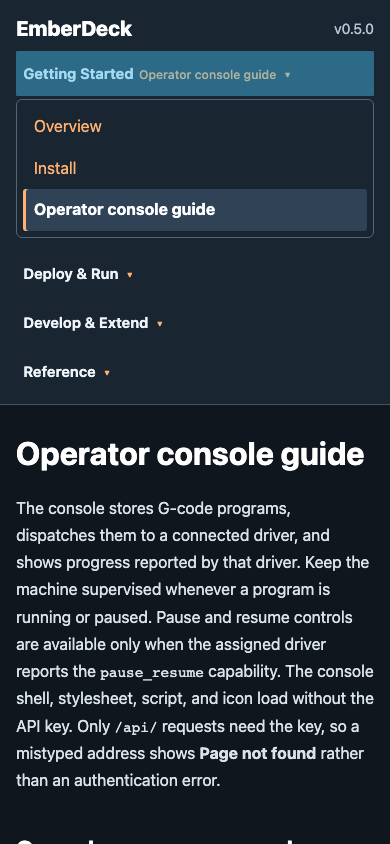
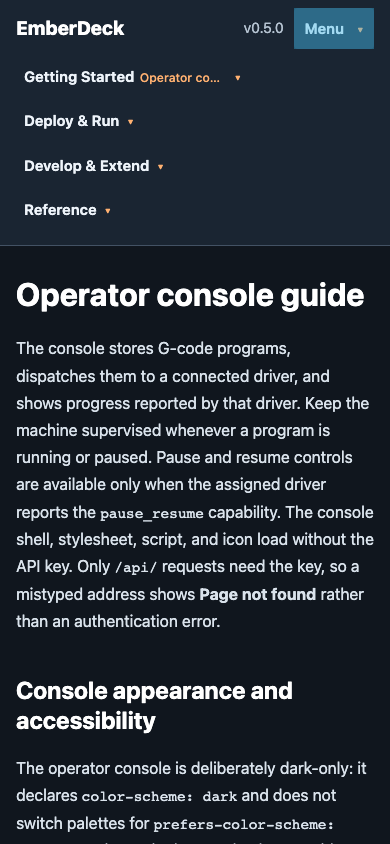
fix: make docs navigation responsive and dismissible

Changed region(s): [[0.0308, 0.3081, 0.9538, 1.0], [0.0308, 0.0, 0.9846, 0.154], [0.0308, 0.1848, 0.9538, 0.2773]]

diff --git a/e2e/docs-navigation.spec.js b/e2e/docs-navigation.spec.js
@@ -62,10 +62,10 @@ test('rendered documentation has grouped, current, keyboard accessible navigatio
     await expect(page.locator('link[rel="canonical"]')).toHaveAttribute('href', `https://constructorfleet.github.io/emberdeck/${pageName}`);
     await expect(page.locator('link[rel="icon"]')).toHaveAttribute('href', 'assets/favicon.svg');
     const currentPageName = await page.locator('nav a[aria-current="page"]').innerText();
-    const currentSummary = page.locator('nav details:has(a[aria-current="page"]) > summary');
+    const currentSummary = page.locator('nav .nav-groups > details:has(a[aria-current="page"]) > summary');
     await expect(currentSummary).toHaveAccessibleName(new RegExp(`Current page: ${currentPageName}`));
     for (const [label, links] of Object.entries(expectedGroups)) {
-      const group = page.locator('nav details').filter({ has: page.getByText(label, { exact: true }) });
+      const group = page.locator('nav .nav-groups > details').filter({ has: page.getByText(label, { exact: true }) });
       await expect(group.locator('summary')).toContainText(label);
       await group.locator('summary').click();
       for (const [link, href] of links) await expect(group.getByRole('link', { name: link, exact: true })).toHaveAttribute('href', href);
@@ -81,9 +81,25 @@ test('rendered documentation has grouped, current, keyboard accessible navigatio
     }
     await expect.poll(() => page.locator('img').evaluateAll((nodes) => nodes.every((image) => image.complete && image.naturalWidth > 0))).toBe(true);
     expect(await page.evaluate(() => document.documentElement.scrollWidth <= innerWidth), `${pageName} fits desktop`).toBe(true);
-    for (const width of [1024, 768, 721, 720, 681, 390]) {
+    for (const width of [1920, 1600, 1440, 1280, 1024, 900, 800, 768, 721, 720, 681, 390, 375, 320]) {
       await page.setViewportSize({ width, height: 900 });
       expect(await page.evaluate(() => document.documentElement.scrollWidth <= innerWidth), `${pageName} fits ${width}px`).toBe(true);
+      if (pageName === 'operator-guide.html') {
+        const mobileMenu = page.locator('nav .mobile-menu');
+        if (width <= 980) await mobileMenu.locator('summary').click();
+        for (const group of await page.locator('nav .nav-groups > details').all()) {
+          await group.locator('summary').click();
+          const bounds = await group.locator('ul').evaluate((menu) => {
+            const rect = menu.getBoundingClientRect();
+            return { left: rect.left, right: rect.right, width: rect.width, viewport: innerWidth };
+          });
+          expect(bounds.width, `${pageName} menu is visible at ${width}px`).toBeGreaterThan(0);
+          expect(bounds.left, `${pageName} menu left edge at ${width}px`).toBeGreaterThanOrEqual(0);
+          expect(bounds.right, `${pageName} menu right edge at ${width}px`).toBeLessThanOrEqual(bounds.viewport);
+          await group.locator('summary').click();
+        }
+        if (width <= 980) await mobileMenu.locator('summary').click();
+      }
       if (width === 768) {
         await page.locator('nav').evaluate((nav) => { nav.style.fontSize = '20px'; });
         expect(await page.evaluate(() => document.documentElement.scrollWidth <= innerWidth), `${pageName} fits 768px with larger navigation text`).toBe(true);
@@ -91,6 +107,18 @@ test('rendered documentation has grouped, current, keyboard accessible navigatio
       }
     }
     await page.setViewportSize({ width: 1440, height: 1000 });
+
+    await page.setViewportSize({ width: 1920, height: 1000 });
+    const contentBounds = await page.locator('main').evaluate((node) => {
+      const rect = node.getBoundingClientRect();
+      return { left: rect.left, right: rect.right };
+    });
+    const navBounds = await page.locator('nav .nav-inner').evaluate((node) => {
+      const rect = node.getBoundingClientRect();
+      return { left: rect.left, right: rect.right };
+    });
+    expect(Math.abs(navBounds.left - contentBounds.left), `${pageName} nav aligns left at 1920px`).toBeLessThanOrEqual(1);
+    expect(Math.abs(navBounds.right - contentBounds.right), `${pageName} nav aligns right at 1920px`).toBeLessThanOrEqual(1);
 
     await page.close();
   }
@@ -103,23 +131,43 @@ test('rendered documentation has grouped, current, keyboard accessible navigatio
   await keyboard.keyboard.press('Tab');
   await expect(keyboard.getByRole('link', { name: 'EmberDeck' })).toBeFocused();
   await keyboard.keyboard.press('Tab');
-  const menu = keyboard.locator('nav details').first();
+  const menu = keyboard.locator('nav .nav-groups > details').first();
   await expect(menu.locator('summary')).toBeFocused();
   await keyboard.keyboard.press('Enter');
   await expect(menu).toHaveAttribute('open', '');
   expect(await menu.locator('summary').evaluate((node) => getComputedStyle(node).outlineStyle)).not.toBe('none');
+  const secondMenu = keyboard.locator('nav .nav-groups > details').nth(1);
+  await secondMenu.locator('summary').click();
+  await expect(secondMenu).toHaveAttribute('open', '');
+  await expect(menu).not.toHaveAttribute('open', '');
+  await keyboard.keyboard.press('Escape');
+  await expect(secondMenu).not.toHaveAttribute('open', '');
+  await expect(secondMenu.locator('summary')).toBeFocused();
+  await secondMenu.locator('summary').click();
+  await keyboard.locator('footer').click({ position: { x: 5, y: 5 } });
+  await expect(secondMenu).not.toHaveAttribute('open', '');
+  await secondMenu.locator('summary').focus();
+  await keyboard.keyboard.press('Enter');
+  await keyboard.locator('nav .brand').focus();
+  await expect(secondMenu).not.toHaveAttribute('open', '');
   await keyboard.goto(pathToFileURL(path.join(docs, 'operator-guide.html')).href);
   await keyboard.getByRole('link', { name: 'Skip to content' }).focus();
   await keyboard.keyboard.press('Enter');
   await expect(keyboard.locator('#main-content')).toBeFocused();
 
-  const mobile = await browser.newPage({ viewport: { width: 390, height: 844 }, isMobile: true, hasTouch: true });
+  const mobile = await browser.newPage({ viewport: { width: 375, height: 667 }, isMobile: true, hasTouch: true });
   await mobile.goto(pathToFileURL(path.join(docs, 'operator-guide.html')).href);
   expect(await mobile.evaluate(() => document.documentElement.scrollWidth <= innerWidth)).toBe(true);
-  await expect(mobile.locator('nav details')).toHaveCount(4);
-  await mobile.locator('nav summary').nth(3).tap();
-  await expect(mobile.locator('nav details').nth(3)).toHaveAttribute('open', '');
-  await expect(mobile.locator('nav details').nth(3).getByRole('link', { name: 'API route index' })).toBeVisible();
+  expect(await mobile.locator('nav').evaluate((nav) => nav.getBoundingClientRect().height), 'closed mobile navigation stays compact').toBeLessThanOrEqual(80);
+  const mobileMenu = mobile.locator('nav .mobile-menu');
+  await expect(mobileMenu.locator('summary')).toHaveText('Menu');
+  await mobileMenu.locator('summary').tap();
+  await expect(mobileMenu).toHaveAttribute('open', '');
+  await expect(mobile.locator('nav .nav-groups > details')).toHaveCount(4);
+  const mobileReference = mobile.locator('nav .nav-groups > details').nth(3);
+  await mobileReference.locator('summary').tap();
+  await expect(mobileReference.getByRole('link', { name: 'API route index' })).toBeVisible();
+  await expect(mobile.locator('nav a[aria-current="page"]')).toHaveCount(1);
   expect(await mobile.evaluate(() => document.documentElement.scrollWidth <= innerWidth)).toBe(true);
 });
 

diff --git a/scripts/build-docs.py b/scripts/build-docs.py
@@ -141,11 +141,11 @@ grouped_pages = [name for group in groups.values() for name in group]
 if set(grouped_pages) != set(pages) or len(grouped_pages) != len(pages):
     raise SystemExit(f'Documentation navigation must include every page exactly once: pages={sorted(pages)}, grouped={sorted(grouped_pages)}')
 def make_nav(page_name):
-    result = '<a class="skip-link" href="#main-content">Skip to content</a><nav aria-label="Documentation"><a class="brand" href="index.html">EmberDeck</a><span class="version">v' + escape(version) + '</span>'
+    result = '<a class="skip-link" href="#main-content">Skip to content</a><nav aria-label="Documentation"><div class="nav-inner"><a class="brand" href="index.html">EmberDeck</a><span class="version">v' + escape(version) + '</span><details class="mobile-menu" name="docs-nav-mobile" open><summary>Menu</summary></details><div class="nav-groups">'
     for label, names in groups.items():
         selected_name = next((name for name in names if name == page_name), None)
         current_title = page_title(selected_name) if selected_name else ''
-        result += '<details><summary><span>' + escape(label) + '</span>'
+        result += '<details name="docs-nav"><summary><span>' + escape(label) + '</span>'
         if current_title:
             result += '<span class="sr-only">Current page: </span><span class="current-page">' + escape(current_title) + '</span>'
         result += '</summary><ul>'
@@ -154,8 +154,77 @@ def make_nav(page_name):
             title = page_title(name)
             result += '<li><a href="' + name + '.html"' + current + '>' + escape(title) + '</a></li>'
         result += '</ul></details>'
-    return result + '</nav>'
+    return result + '</div></div></nav>'
 style = '''*{box-sizing:border-box}body{margin:0;background:#10161e;color:#dae3ec;font:16px/1.7 system-ui,-apple-system,sans-serif}a{color:#ffb171;text-underline-offset:.18em}a:hover{color:#ffd0a4}a:focus-visible,summary:focus-visible{outline:3px solid #ffd18f;outline-offset:3px;border-radius:3px}.sr-only{position:absolute;width:1px;height:1px;padding:0;margin:-1px;overflow:hidden;clip:rect(0,0,0,0);white-space:nowrap;border:0}.skip-link{position:absolute;left:1rem;top:-5rem;z-index:10;padding:.65rem 1rem;background:#fff;color:#10161e;border-radius:4px}.skip-link:focus{top:1rem}nav{position:relative;z-index:2;display:flex;flex-wrap:wrap;justify-content:space-between;gap:.75rem;padding:.8rem max(1rem,4vw);background:#1a2532;align-items:center;border-bottom:1px solid #435264}nav .brand{font-weight:800;font-size:1.3rem;text-decoration:none;color:#fff}nav .version{color:#b6c4d2;font-size:.9rem}nav details{position:relative;min-width:0}nav summary{display:flex;flex-wrap:wrap;align-items:baseline;gap:.4rem;cursor:pointer;list-style:none;padding:.5rem .7rem;border-radius:4px;font-weight:650;color:#eef4fa}nav summary::-webkit-details-marker{display:none}nav summary::after{content:"▾";margin-left:.15em;color:#ffb171}.current-page{font-size:.76rem;color:#ffb171;font-weight:500}nav details[open] summary{background:#2a3949}nav ul{position:absolute;top:100%;right:0;min-width:15rem;margin:.3rem 0 0;padding:.4rem;list-style:none;background:#1a2532;border:1px solid #536579;border-radius:6px;box-shadow:0 8px 24px #0008}nav li a{display:block;padding:.45rem .65rem;border-radius:3px;text-decoration:none}nav li a:hover,nav li a[aria-current="page"]{background:#304256;color:#fff}nav li a[aria-current="page"]{box-shadow:inset 3px 0 #ffb171;font-weight:700}main{max-width:78ch;margin:2.5rem auto;padding:0 1.5rem;overflow-wrap:anywhere}h1{font-size:clamp(2rem,4vw,2.7rem);margin-top:0}h2{margin-top:2.5rem}h1,h2,h3{line-height:1.25;color:#fff}p,li{max-width:75ch}pre{overflow:auto;background:#1a2532;padding:1.2rem;border-radius:8px;border:1px solid #435264}code{font-size:.9em;overflow-wrap:anywhere}img{display:block;max-width:100%;height:auto;border:1px solid #536579;border-radius:8px;margin:1.2rem 0}table{display:block;overflow-x:auto;border-collapse:collapse;max-width:100%;width:max-content}td,th{padding:.6rem;border:1px solid #435264;text-align:left}footer{margin:3rem 0;border-top:1px solid #435264;padding-top:1rem;color:#b6c4d2}@media(max-width:740px){nav{display:grid;grid-template-columns:1fr auto;gap:.3rem .4rem;padding:.7rem 1rem}nav .brand{grid-column:1;grid-row:1}nav .version{grid-column:2;grid-row:1;margin:0;text-align:right}nav details{grid-column:1/-1;min-width:0}nav summary{padding:.6rem .45rem;font-size:.92rem;flex-wrap:wrap;gap:0 .35rem}nav details[open]{grid-column:1/-1}nav ul{position:static;min-width:0;margin:.2rem 0 .5rem;box-shadow:none}main{margin:1.75rem auto;padding:0 1rem}pre{padding:.85rem}img{margin:.9rem 0}}'''
+
+nav_style = '''
+nav{display:block;padding:0;background:#1a2532}
+.nav-inner{display:grid;grid-template-columns:1fr auto;grid-template-rows:auto auto;align-items:center;gap:.25rem 1rem;width:100%;max-width:78ch;margin:0 auto;padding:.55rem 1.5rem}
+nav .brand{grid-column:1;grid-row:1;font-size:1.3rem}
+nav .version{grid-column:2;grid-row:1}
+.mobile-menu{display:contents}.mobile-menu>summary{display:none}
+.nav-groups{grid-column:1/-1;grid-row:2;display:grid;grid-template-columns:repeat(4,minmax(0,1fr));gap:.2rem;align-items:start}
+nav summary{align-items:baseline;gap:.2rem .35rem;padding:.4rem .35rem}
+.current-page{max-width:11ch;overflow:hidden;text-overflow:ellipsis;white-space:nowrap}
+.nav-groups>details>ul{position:absolute;z-index:3;top:100%;left:0;right:auto;width:max-content;min-width:min(15rem,calc(100vw - 2rem));max-width:calc(100vw - 2rem)}
+.nav-groups>details:last-child>ul{left:auto;right:0}
+@media(max-width:980px){
+ .nav-inner{grid-template-columns:minmax(0,1fr) auto auto;grid-template-rows:auto;gap:.4rem .65rem;padding:.5rem 1rem}
+ nav .brand{grid-column:1;grid-row:1;font-size:1.2rem}nav .version{grid-column:2;grid-row:1}
+ .mobile-menu{display:contents}.mobile-menu>summary{display:flex;grid-column:3;grid-row:1;align-items:center;padding:.5rem .65rem}
+ .mobile-menu>summary::-webkit-details-marker{display:none}.mobile-menu>summary::after{content:"▾";margin-left:.45rem;color:#ffb171}
+ .nav-groups{display:none;grid-column:1/-1;grid-row:2;grid-template-columns:minmax(0,1fr);gap:.1rem;align-items:stretch}
+  .mobile-menu[open]~.nav-groups{display:grid}
+ .nav-groups>details{position:static;grid-column:auto;width:100%}
+ .nav-groups>details>summary{width:100%;padding:.55rem .5rem}
+ .nav-groups>details>ul{position:static;width:auto;min-width:0;max-width:100%;margin:.15rem 0 .4rem;box-shadow:none}
+ main{margin:1.75rem auto;padding:0 1rem}pre{padding:.85rem}img{margin:.9rem 0}
+}
+'''
+
+nav_script = '''
+(() => {
+  const nav = document.querySelector('nav[aria-label="Documentation"]');
+  if (!nav) return;
+  const groups = [...nav.querySelectorAll('.nav-groups > details')];
+  const mobile = nav.querySelector('.mobile-menu');
+  const navGroups = nav.querySelector('.nav-groups');
+  const compact = window.matchMedia('(max-width: 980px)');
+  const syncMobileDisclosure = () => { mobile.open = !compact.matches; };
+  syncMobileDisclosure();
+  compact.addEventListener('change', syncMobileDisclosure);
+  const closeGroups = (except) => groups.forEach((group) => { if (group !== except) group.open = false; });
+  nav.addEventListener('toggle', (event) => {
+    const group = event.target;
+    if (groups.includes(group) && group.open) closeGroups(group);
+  }, true);
+  document.addEventListener('keydown', (event) => {
+    if (event.key !== 'Escape') return;
+    const group = groups.find((item) => item.open && item.contains(document.activeElement));
+    if (group) {
+      event.preventDefault();
+      group.open = false;
+      group.querySelector('summary').focus();
+      return;
+    }
+    if (mobile?.open && (mobile.contains(document.activeElement) || navGroups.contains(document.activeElement))) {
+      event.preventDefault();
+      mobile.open = false;
+      mobile.querySelector('summary').focus();
+    }
+  });
+  document.addEventListener('click', (event) => {
+    const open = groups.find((group) => group.open);
+    if (open && !open.contains(event.target)) open.open = false;
+    if (mobile?.open && !mobile.contains(event.target) && !navGroups.contains(event.target)) mobile.open = false;
+  });
+  document.addEventListener('focusin', (event) => {
+    const open = groups.find((group) => group.open);
+    if (open && !open.contains(event.target)) open.open = false;
+    if (mobile?.open && !mobile.contains(event.target) && !navGroups.contains(event.target)) mobile.open = false;
+  });
+})();
+'''
 def render_page(name, body, page_name):
     title = page_title(name) + ' · EmberDeck docs'
     description = page_descriptions[name]
@@ -171,11 +240,11 @@ def render_page(name, body, page_name):
         '<meta property="og:image" content="' + escape(site_base_url + og_image_path) + '">'
         '<link rel="canonical" href="' + escape(canonical) + '">'
         '<link rel="icon" type="image/svg+xml" href="assets/favicon.svg">'
-        '<style>' + style + '</style></head>'
+        '<style>' + style + nav_style + '</style></head>'
     )
     nav = make_nav(page_name)
     footer = '<footer>Documentation for v' + escape(version) + ' · <a href="https://github.com/constructorfleet/emberdeck/tree/' + revision + '">Release source</a> · <a href="LICENSE.txt">AGPL-3.0</a></footer>'
-    return head + '<body>' + nav + '<main id="main-content" tabindex="-1">' + body + footer + '</main></body></html>'
+    return head + '<body>' + nav + '<main id="main-content" tabindex="-1">' + body + footer + '</main><script>' + nav_script + '</script></body></html>'
 
 
 for name, text in pages.items():

diff --git a/docs/browser-tests.md b/docs/browser-tests.md
@@ -83,5 +83,10 @@ The static site navigation is grouped by reader task:
 
 `e2e/docs-navigation.spec.js` builds and opens the public rendered HTML. It
 checks each page for one current link, all four groups and their links, working
-local page links and images, desktop/mobile overflow, keyboard access, visible
-focus, and touch activation. It also covers generated API Routes and CLI pages.
+local page links and images, menu bounds at 320–1920 px (including 800 and 900
+px), compact closed navigation at 375 px, and alignment with the content column
+at 1920 px. It also verifies exclusive dropdowns, Escape and focus return,
+outside-click and focus-leave dismissal, keyboard access, visible focus, and
+touch activation. On narrow screens a single **Menu** disclosure reveals all
+groups; on wider screens the groups remain visible. Generated API Routes, CLI,
+and 404 pages use the same navigation.
